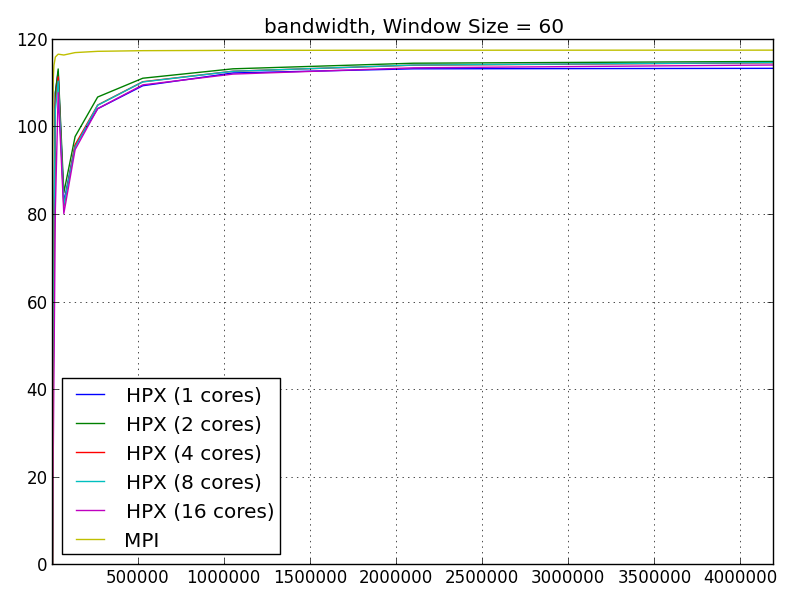
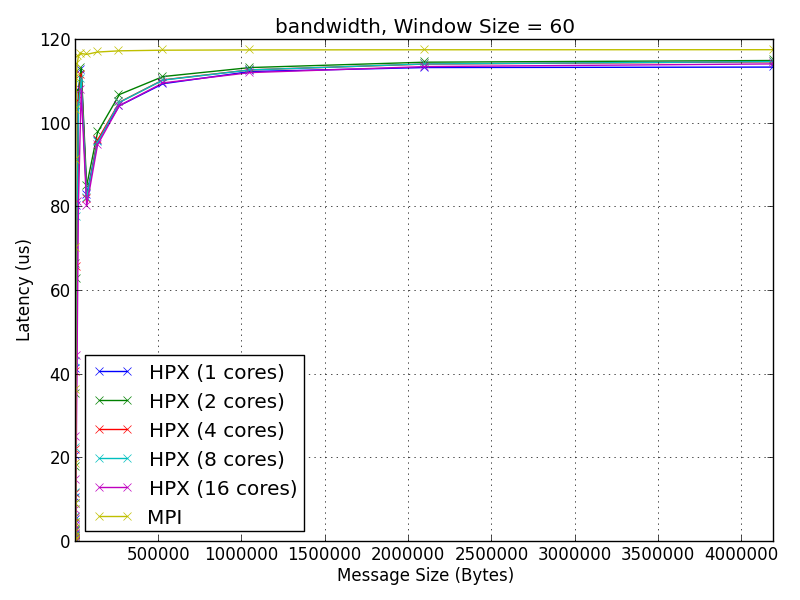
Adding axes labels and marker

Changed region(s): [[0.0, 0.03, 0.9688, 0.99]]

diff --git a/osu_benchmarks/plot.py b/osu_benchmarks/plot.py
@@ -88,7 +88,11 @@ for benchmark_key in data:
         plot_data['MPI'] = benchmark['MPI'][1];
         df = pd.DataFrame(plot_data)#, columns=['blubb 1', '7',  '5', '4', '2', 'MPI'])
         title = benchmark_key + ', Window Size = {}'.format(window_size)
-        df.plot().set_title(title)
+        ax = df.plot(marker = 'x')
+        ax.set_title(title)
+        ax.set_xlabel('Message Size (Bytes)')
+        ax.set_ylabel('Latency (us)')
+
         plt.tight_layout()
         img = benchmark_key + '_window_size_{}.png'.format(window_size)
         plt.savefig('./' + img)
